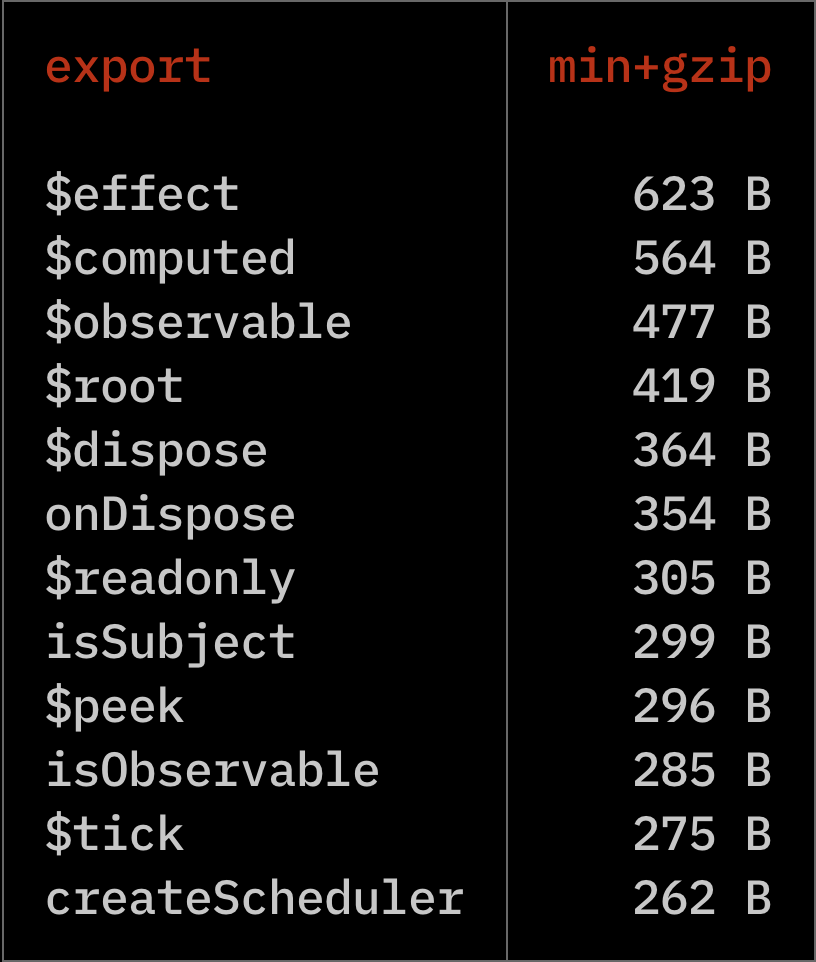
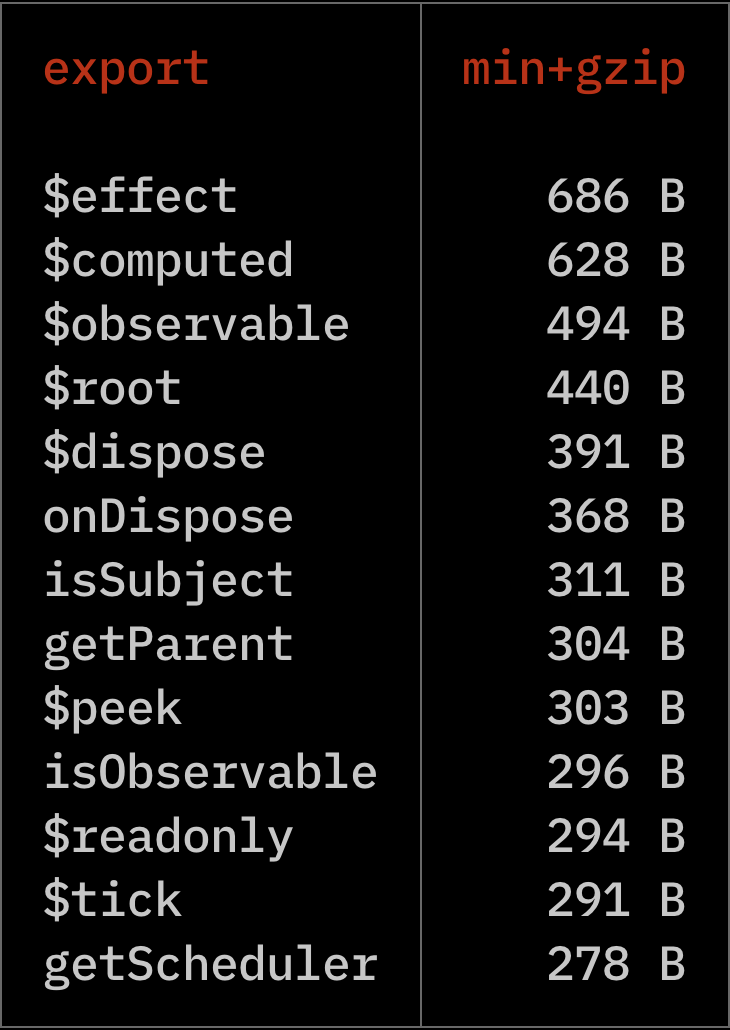
fix: move scheduler to separate package

diff --git a/src/observables.ts b/src/observables.ts
@@ -1,4 +1,4 @@
-import { createScheduler, type Scheduler } from './scheduler';
+import { createScheduler, type Scheduler } from '@maverick-js/scheduler';
 
 export type Observable<T> = {
   id?: string;

diff --git a/src/index.ts b/src/index.ts
@@ -1,2 +1,1 @@
 export * from './observables';
-export * from './scheduler';

diff --git a/README.md b/README.md
@@ -423,7 +423,7 @@ scheduler.syncFlush();
 ```
 
 > **Note**
-> See the ['Scheduler'](#scheduler) section for more information.
+> See our [Scheduler][maverick-scheduler] repo for more information.
 
 ## Debugging
 
@@ -447,30 +447,6 @@ const $c = $computed(() => $a() + $b(), { id: 'c' });
 
 > **Note**
 > This feature is only available in a development or testing Node environment (i.e., `NODE_ENV`).
-
-## Scheduler
-
-We provide the underlying microtask scheduler incase you'd like to use it:
-
-```js
-import { createScheduler } from '@maverick-js/observables';
-
-// Creates a scheduler which batches tasks and runs them in the microtask queue.
-const scheduler = createScheduler();
-
-// Queue tasks.
-scheduler.enqueue(() => {});
-scheduler.enqueue(() => {});
-
-// Schedule a flush - can be invoked more than once.
-scheduler.flush();
-
-// Wait for flush to complete.
-await scheduler.tick;
-```
-
-> **Note**
-> You can read more about microtasks on [MDN][mdn-microtasks].
 
 ## TypeScript
 
@@ -540,3 +516,4 @@ Special thanks to Wesley, Julien, and Solid/Svelte contributors for all their wo
 [mdn-microtasks]: https://developer.mozilla.org/en-US/docs/Web/API/HTML_DOM_API/Microtask_guide
 [stackblitz-demo]: https://stackblitz.com/edit/maverick-observables?embed=1&file=index.ts&hideExplorer=1&hideNavigation=1&view=editor
 [bundlephobia]: https://bundlephobia.com/package/@maverick-js/observables@^3.0.0
+[maverick-scheduler]: https://github.com/maverick-js/scheduler
